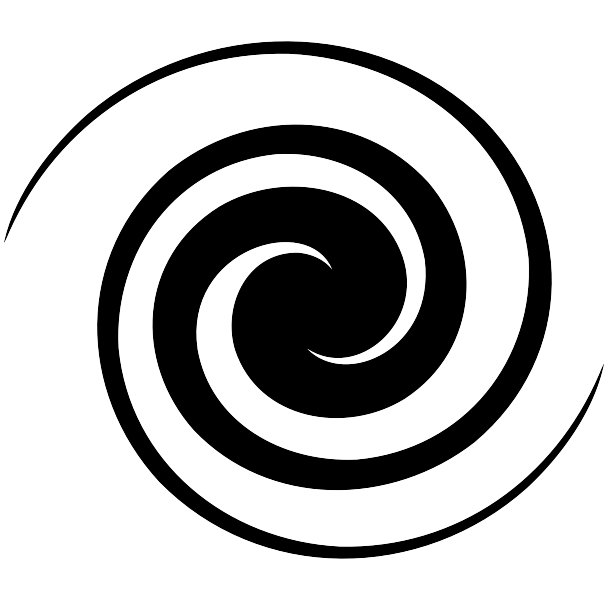
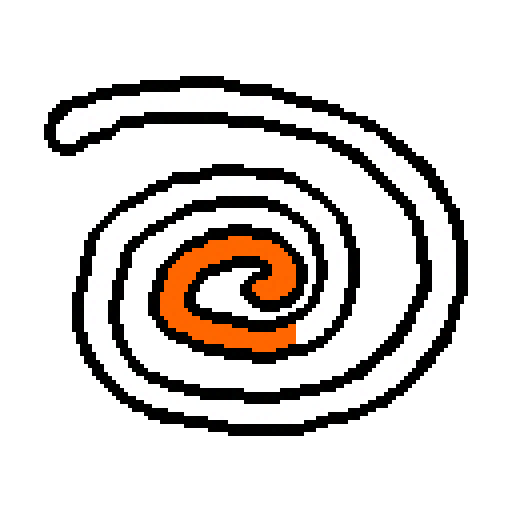
build and package updates

diff --git a/Codespirals.Base.Shared/Helpers/SelectableHelper.cs b/Codespirals.Base.Shared/Helpers/SelectableHelper.cs
@@ -6,20 +6,27 @@
             where TSelectable : ISelectableBase, new()
             where TSelectableEnum : IIsEnum<TSelectable>, new()
         {
-            var list = new List<TSelectable>();
-            var allowableValues = new TSelectableEnum();
-            var properties = typeof(TSelectableEnum).GetProperties();
-            foreach (var prop in properties)
+            try
             {
-                var propValue = prop.GetValue(allowableValues);
-                if (propValue is null)
-                    break;
-                if (propValue is ISelectableBase cast)
+                var list = new List<TSelectable>();
+                var allowableValues = new TSelectableEnum();
+                var properties = typeof(TSelectableEnum).GetProperties();
+                foreach (var prop in properties)
                 {
-                    list.Add(new TSelectable { Id = cast.Id, Name = cast.Name, Description = cast.Description });
+                    var propValue = prop.GetValue(allowableValues);
+                    if (propValue is null)
+                        continue;
+                    if (propValue is ISelectableBase cast)
+                    {
+                        list.Add(new TSelectable { Id = cast.Id, Name = cast.Name, Description = cast.Description });
+                    }
                 }
+                return [.. list];
             }
-            return [.. list];
+            catch (Exception)
+            {
+                return [];
+            }
         }
     }
 }
